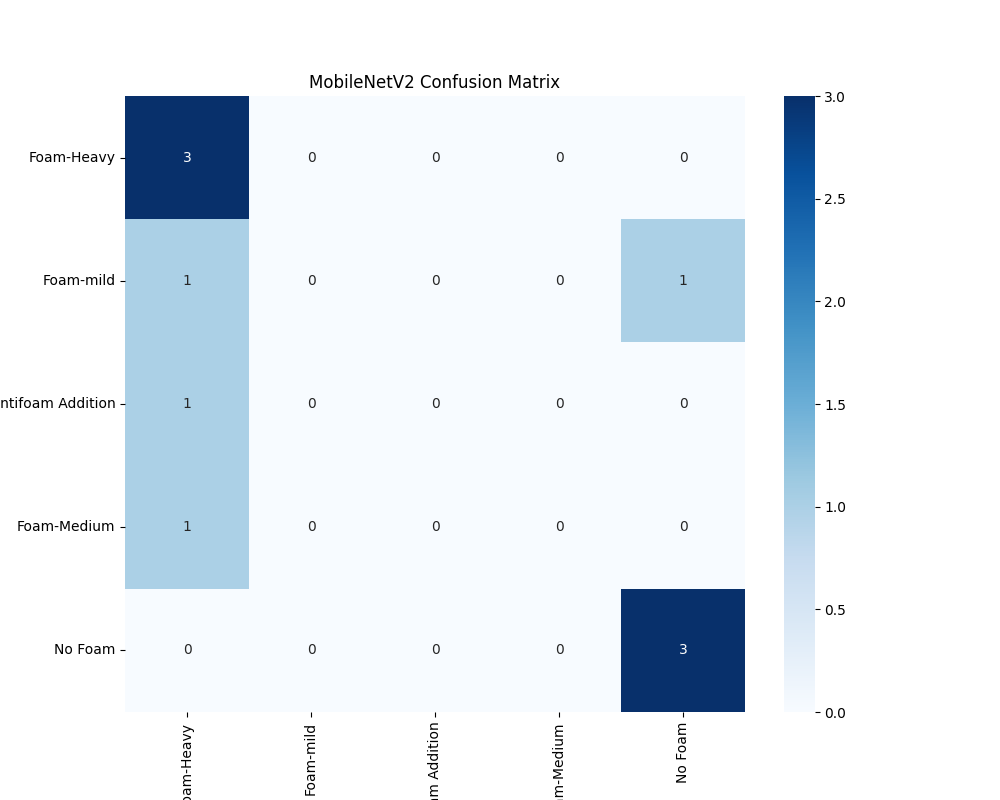
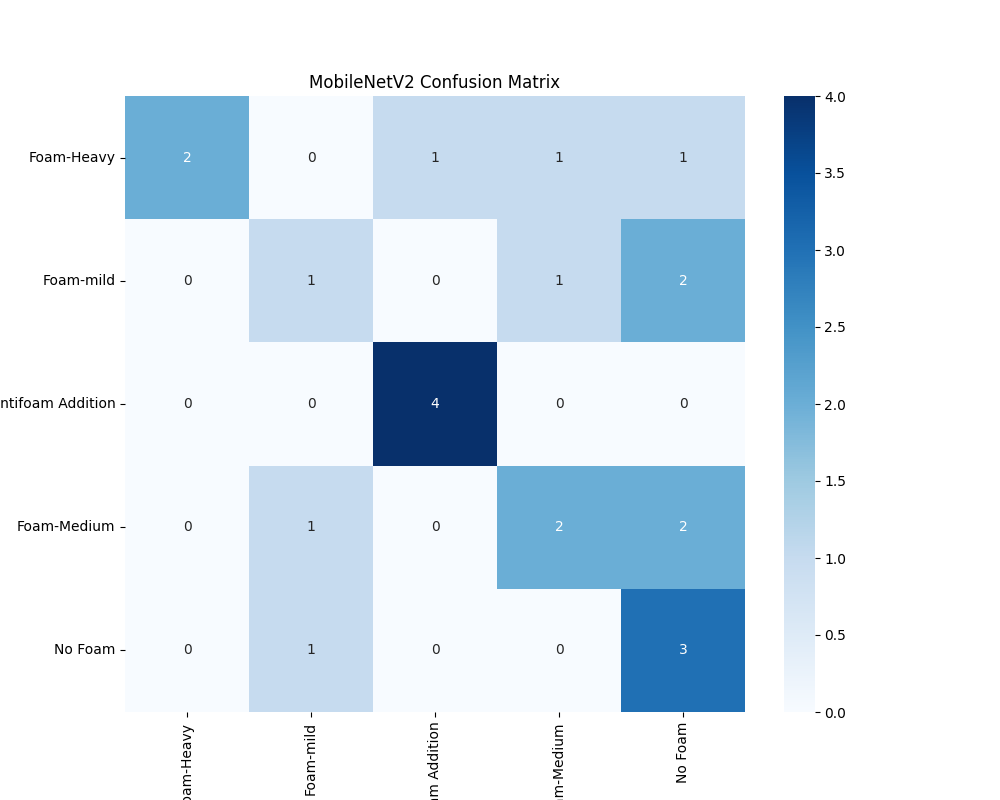
patch fix repo structure

diff --git a/cnn.py b/cnn.py
@@ -20,7 +20,7 @@ tf.random.set_seed(42)
 #I set this arbitrarily
 IMG_HEIGHT, IMG_WIDTH = 224, 224
 BATCH_SIZE = 11
-EPOCHS = 20
+EPOCHS = 50
 FRAME_INTERVAL = 30  # Extract a frame every 30 frames
 
 data_dir = '.'
@@ -275,7 +275,7 @@ for model in models_to_test:
         }
     
         # Save the model
-        model.save(f'{model_name.lower().replace(" ", "_")}_model.h5')
+        model.save(f'models/{model_name.lower().replace(" ", "_")}_model.h5')
     except Exception as e:
         print(f"Error during prediction and reporting for {model_name}: {str(e)}")
 # Plot accuracy comparison
@@ -287,7 +287,7 @@ plt.title('Model Accuracy Comparison')
 plt.ylabel('Accuracy')
 plt.xlabel('Epoch')
 plt.legend()
-plt.savefig('model_accuracy_comparison.png')
+plt.savefig('figures/model_accuracy_comparison.png')
 plt.close()
 
 # Print final results and classification reports
@@ -303,7 +303,7 @@ for model_name, result in results.items():
     plt.title(f'{model_name} Confusion Matrix')
     plt.ylabel('True label')
     plt.xlabel('Predicted label')
-    plt.savefig(f'{model_name.lower().replace(" ", "_")}_confusion_matrix.png')
+    plt.savefig(f'figures/{model_name.lower().replace(" ", "_")}_confusion_matrix.png')
     plt.close()
 
 print("\nTraining and evaluation complete. Model files and visualizations have been saved.")
